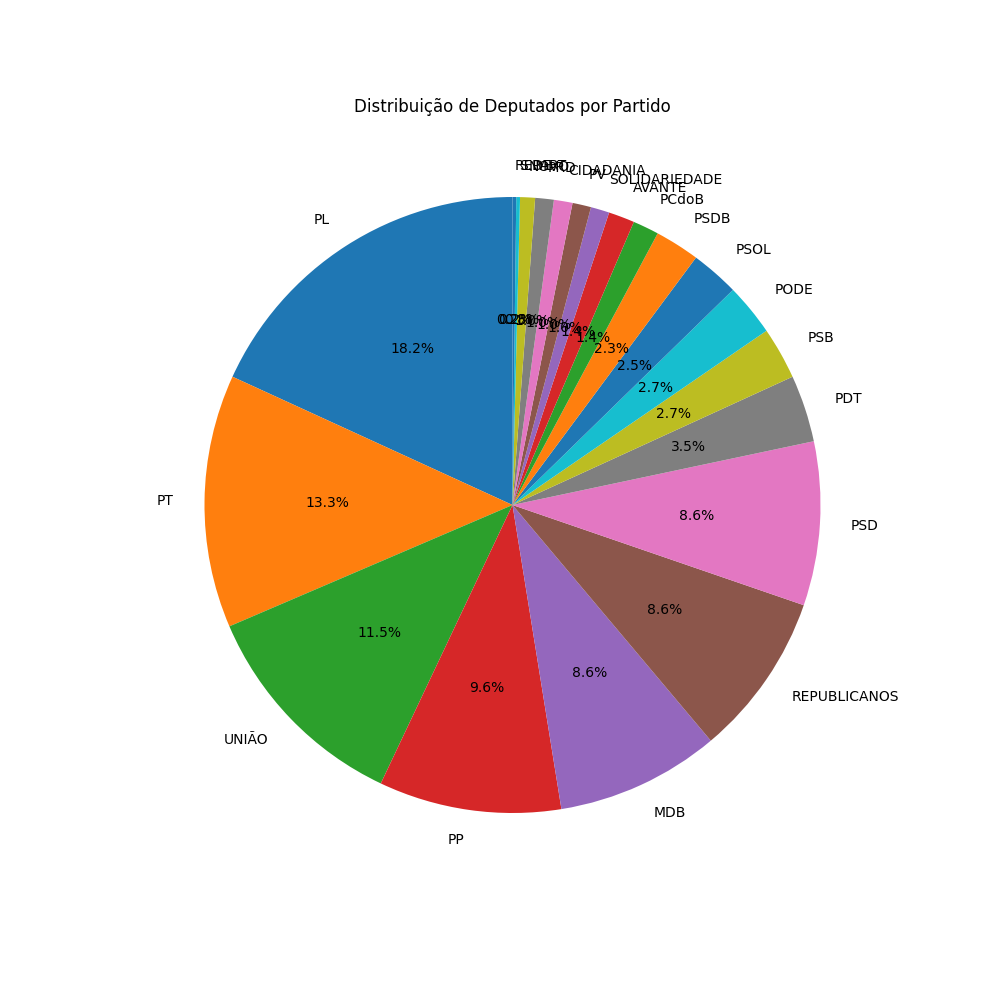
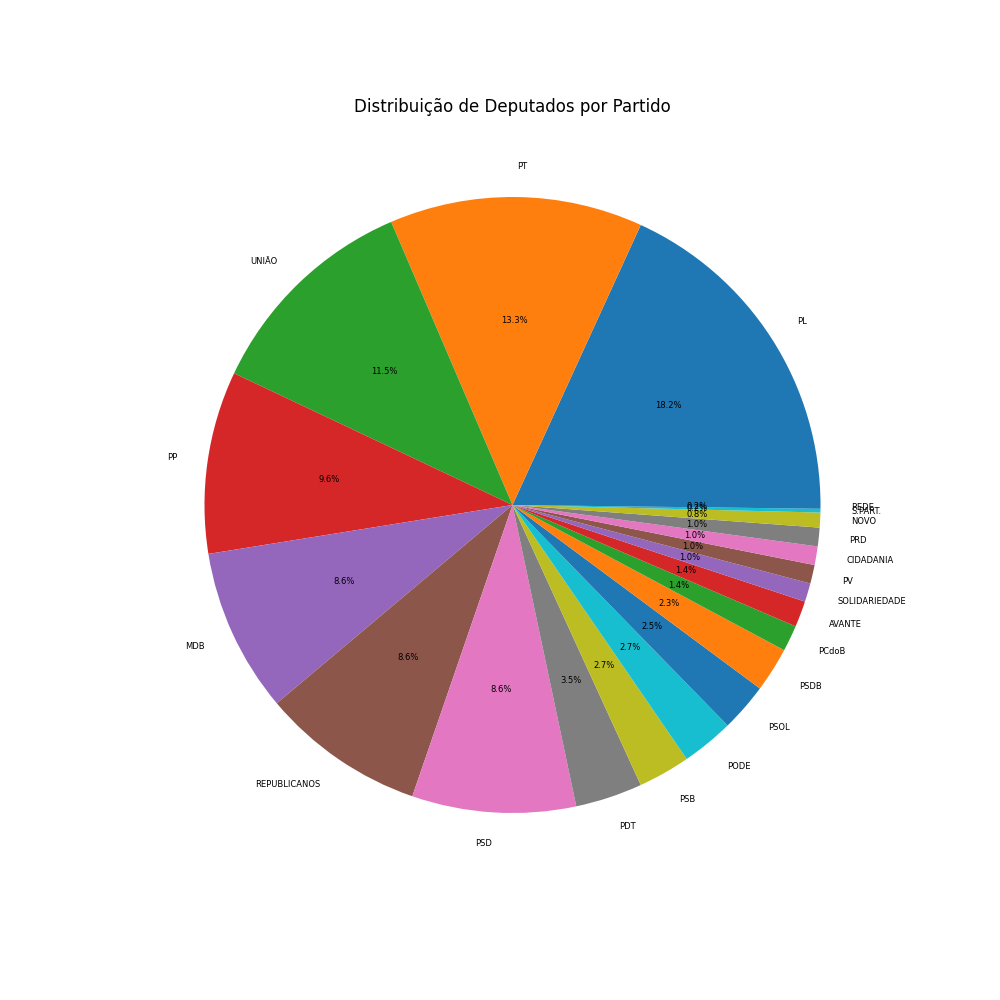
Add new chart image

diff --git a/src/services/gemini.py b/src/services/gemini.py
@@ -15,7 +15,12 @@ class Gemini:
     A simple class that implements methods to generate content using the Google Gemini API.
     """
 
-    def __init__(self, api_key=None, system_prompt=None):
+    def __init__(
+        self,
+        api_key: str = None,
+        system_prompt: str = None,
+        model_name: str = "gemini-1.5-flash",
+    ):
         """
         Initialize the Gemini class with the API key and system prompt.
 
@@ -29,9 +34,13 @@ class Gemini:
             raise ValueError("API key is required for Google Gemini API")
 
         genai.configure(api_key=self.api_key)
-        self.model_name = "gemini-1.5-flash"
+        self.model_name = model_name
         self.response = None
         self.system_prompt = system_prompt
+
+    # ----------------------------
+    # Main Methods
+    # ----------------------------
 
     def ask(self, prompt: str) -> AIResponse:
         """
@@ -101,6 +110,10 @@ class Gemini:
         """
         self.ask(prompt)
         return self._to_json_str()
+
+    # ----------------------------
+    # Utils
+    # ----------------------------
 
     def _to_python_code(self) -> str:
         """

diff --git a/src/dataprep.py b/src/dataprep.py
@@ -69,6 +69,7 @@ def generate_deputados_by_party_analysis():
 
     You need to generate a pie chart using matplotlib with the distribution of deputados by party.
     You need to save the pie chart as a .png file at {deputados_distribution_pie_chart_file}.
+    There's will be a lot of items, so you need to make sure the labels are readable.
     Don't explain anything, just generate the python code.
     """
 
